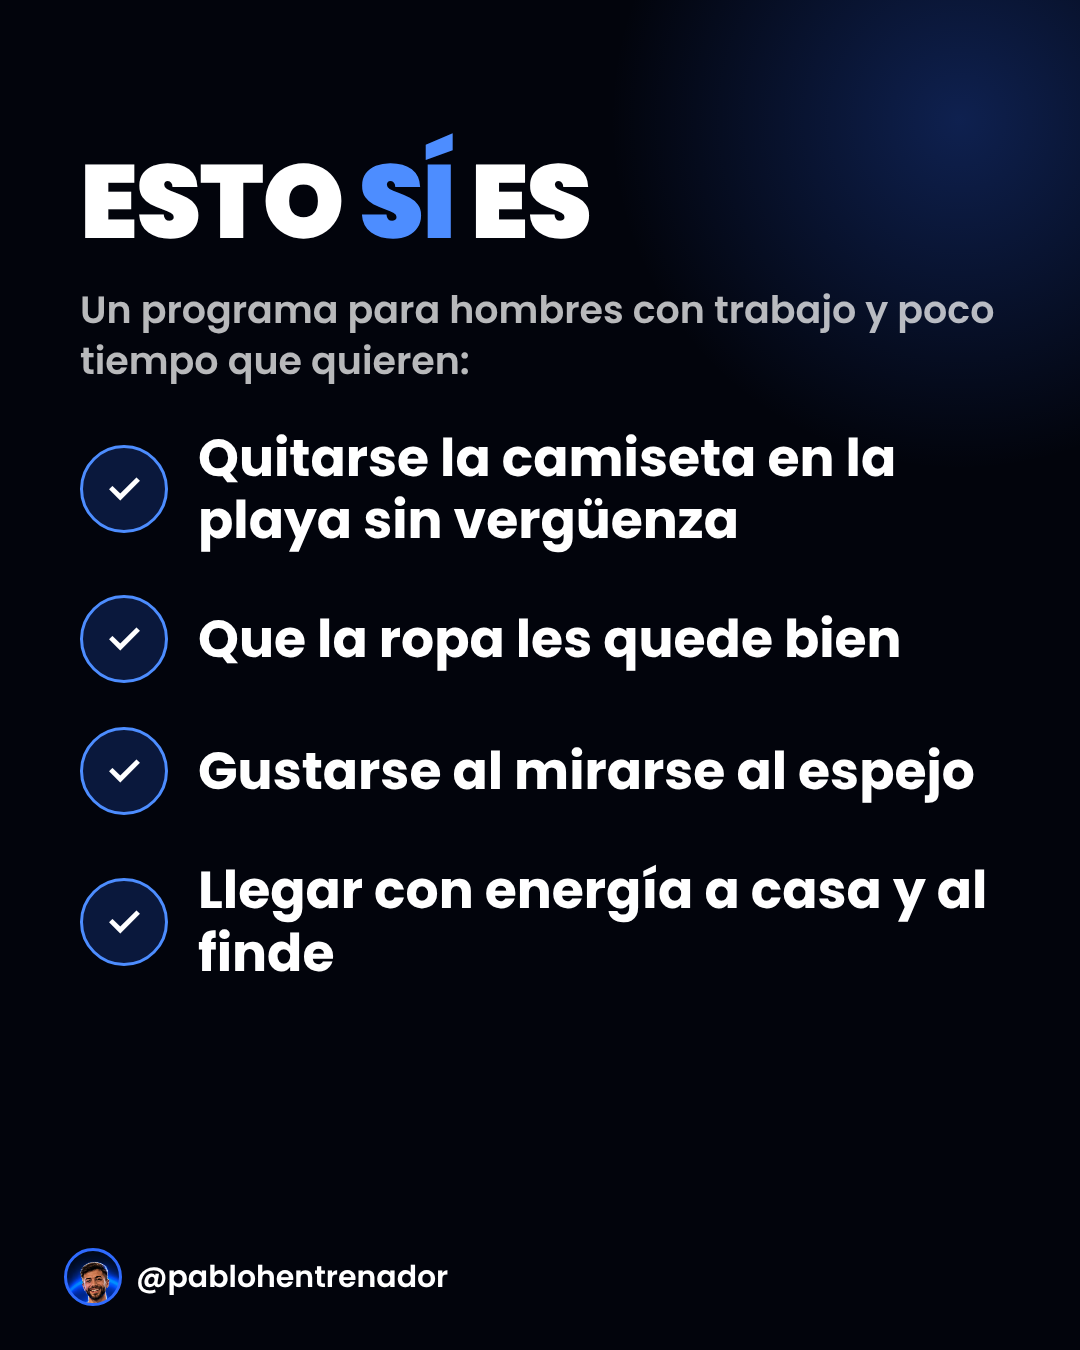
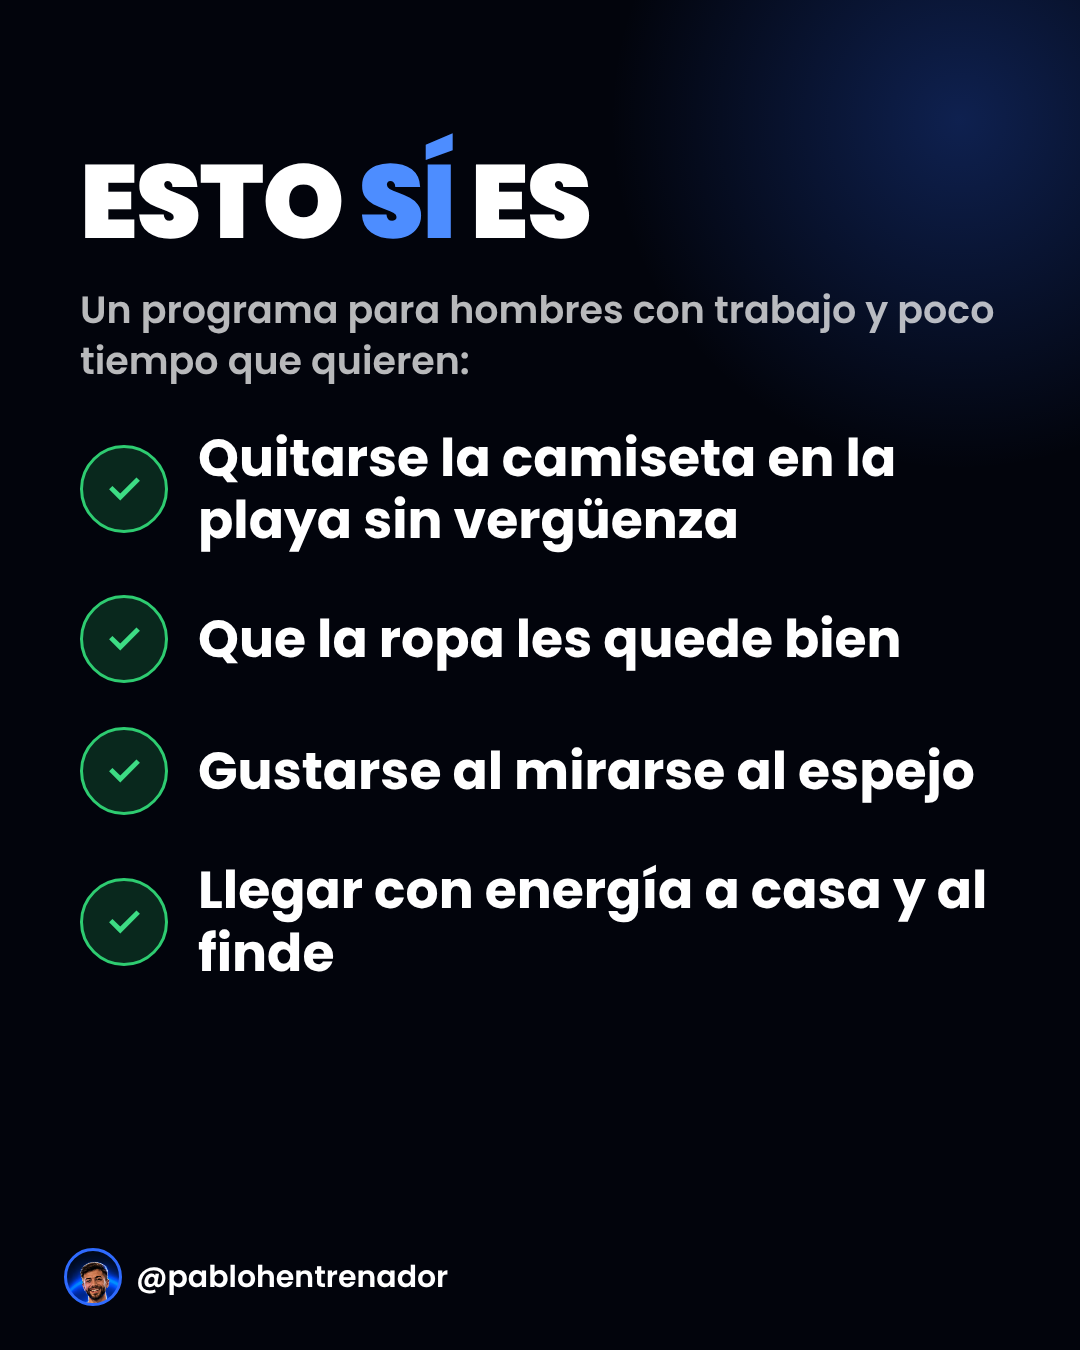
Carrusel 'Así trabajo': ticks verdes y 'Somos un equipo'
Claude-Session: https://claude.ai/code/session_015PfrwJnF2wsp656kSpm277

Changed region(s): [[0.0611, 0.4356, 0.1528, 0.6222], [0.0611, 0.3111, 0.1528, 0.4044], [0.0611, 0.6533, 0.1528, 0.7156]]

diff --git a/carrusel-pablo/como-trabajo/carrusel.html b/carrusel-pablo/como-trabajo/carrusel.html
@@ -20,7 +20,7 @@ h2{font-size:104px}
 .li{display:flex;align-items:center;gap:30px;font-size:52px;font-weight:700;line-height:1.2}
 .li .ic{flex:0 0 88px;height:88px;border-radius:50%;display:grid;place-items:center;font-size:42px;font-weight:900}
 .no .ic{background:rgba(255,90,90,.16);border:3px solid var(--red);color:#ff7a7a}
-.si .ic{background:rgba(47,107,255,.2);border:3px solid var(--blue2);color:#fff}
+.si .ic{background:rgba(46,204,113,.18);border:3px solid #2ECC71;color:#3DDC84}
 .lead{font-size:38px;color:var(--muted);margin-top:30px;line-height:1.35;font-weight:600}
 /* cover */
 .cover .inner{top:0;bottom:0;display:flex;flex-direction:column;justify-content:center}
@@ -49,6 +49,7 @@ h2{font-size:104px}
 .cta .lead{font-size:38px}
 .brandname{margin-top:70px;font-weight:800;font-size:34px;letter-spacing:1px;color:var(--muted)}
 .brandname span{color:#fff}
+.team{color:#FFC43D;font-weight:800}
 </style></head><body>
 
 <!-- 1 PORTADA -->
@@ -93,7 +94,7 @@ h2{font-size:104px}
     <div class="step"><div class="em">📞</div><div><h3>Valoración</h3><p>Llamada para ver tu caso y si te puedo ayudar</p></div></div>
     <div class="step"><div class="em">📋</div><div><h3>Tu plan</h3><p>Entreno y dieta hechos para tu vida</p></div></div>
     <div class="step"><div class="em">🎥</div><div><h3>Técnica</h3><p>Me mandas vídeos y te corrijo cada semana</p></div></div>
-    <div class="step hl"><div class="em">💬</div><div><h3>Seguimiento</h3><p>WhatsApp directo conmigo. Si desapareces unos días, te escribo yo</p></div></div>
+    <div class="step hl"><div class="em">💬</div><div><h3>Seguimiento</h3><p>WhatsApp directo conmigo. Si desapareces unos días, te escribo yo. <b class="team">Somos un equipo.</b></p></div></div>
     <div class="step"><div class="em">📈</div><div><h3>Revisión mensual</h3><p>Videollamada: medidas, fotos y ajustes</p></div></div>
   </div>
 </div>
